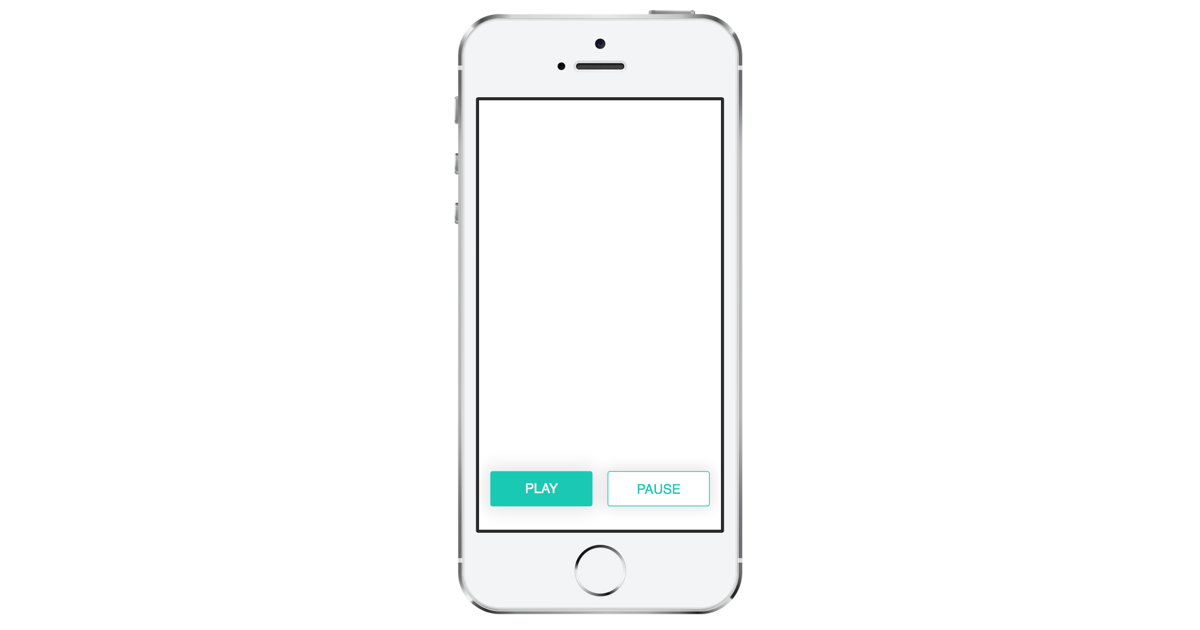
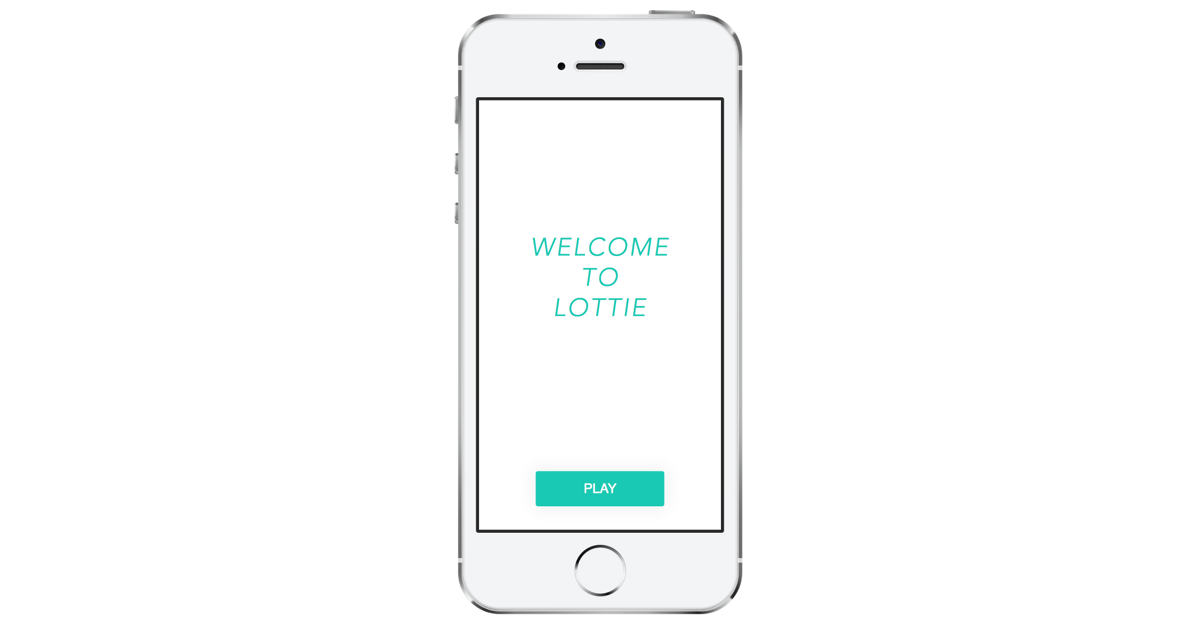
更新demo

Changed region(s): [[0.4317, 0.3619, 0.555, 0.5127], [0.4933, 0.7238, 0.5858, 0.8143], [0.4008, 0.7238, 0.4625, 0.8143]]

diff --git a/lottie-framer-demo.framer/.social.html b/lottie-framer-demo.framer/.social.html
@@ -31,14 +31,14 @@
 		<script src="framer/framer.js?nocache=de1b3b046cd7a44d11f275a7634f9e0b"></script>
 		<script src="framer/framer.generated.js?nocache=27d512ed46dba8aab8cfcccbfd23d274"></script>
 		<script src="framer/framer.modules.js?nocache=a48a3f6cb3e45983bd94201f7185633e"></script>
-		<script>document.addEventListener("DOMContentLoaded", function() {window.__framerClientCodeId = 896;window.__framerNew = function (n,loc,th,i){if (i == null) { return i };i.__framerInstanceInfo = _.defaults({name:n,location:loc,hash:th},i.__framerInstanceInfo);_.defaults(i.__framerInstanceInfo,{name:"Untitled"});return i;};window.__framerAnimation = function (th,a){if (a.isNoop === true) {return a;};var l = a.layer;if (l == null) { return a; };if (l.__framerAnimationInfo == null) {l.__framerAnimationInfo = {};};l.__framerAnimationInfo[th] = {originalState:a._originalState, destinationProperties: a.properties, destinationOptions: a.options};return a;};(function() {
-  var buttonPause, buttonPlay, lf, lottieLogoAnimation, styles;
+		<script>document.addEventListener("DOMContentLoaded", function() {window.__framerClientCodeId = 428;window.__framerNew = function (n,loc,th,i){if (i == null) { return i };i.__framerInstanceInfo = _.defaults({name:n,location:loc,hash:th},i.__framerInstanceInfo);_.defaults(i.__framerInstanceInfo,{name:"Untitled"});return i;};window.__framerAnimation = function (th,a){if (a.isNoop === true) {return a;};var l = a.layer;if (l == null) { return a; };if (l.__framerAnimationInfo == null) {l.__framerAnimationInfo = {};};l.__framerAnimationInfo[th] = {originalState:a._originalState, destinationProperties: a.properties, destinationOptions: a.options};return a;};(function() {
+  var buttonPlay, isPlaying, lf, lottieLogoAnimation, welcomeText;
 
   Screen.backgroundColor = "#FFF";
 
   lf = require('lottieLayer');
 
-  lottieLogoAnimation = window.__framerNew("lottieLogoAnimation", "5:26-12:0", "?",new lf({
+  lottieLogoAnimation = window.__framerNew("lottieLogoAnimation", "5:26-11:0", "?",new lf({
     jsonPath: 'data.json',
     autoplay: false,
     looping: true,
@@ -46,65 +46,64 @@
     height: Screen.height
   }));
 
-  styles = {
+  welcomeText = window.__framerNew("welcomeText", "12:18-17:0", "#1498a19a4",new Layer({
+    y: 350,
+    width: Screen.width,
+    backgroundColor: 'transparent',
+    html: "<p>WELCOME</p><p>TO</p><p>LOTTIE</p>"
+  }));
+
+  welcomeText.style = {
     "color": "#00D1C1",
     "text-align": "center",
-    "font-size": "35px",
-    "line-height": "93px"
+    "font-size": "66px",
+    "line-height": "80px",
+    "font-family": "Avenir Light,Georgia,serif",
+    "font-style": "italic",
+    "letter-spacing": "5px"
   };
 
-  buttonPlay = window.__framerNew("buttonPlay", "19:17-30:0", "#120a43c3c",new Layer({
+  buttonPlay = window.__framerNew("buttonPlay", "27:17-38:0", "#e526517f",new Layer({
     y: 981,
-    x: 30,
+    x: 150,
     height: 93,
-    width: 270,
+    width: 340,
     borderRadius: 6,
     backgroundColor: "#00D1C1",
     html: "PLAY",
     shadowSpread: 15,
     shadowBlur: 50,
-    shadowColor: "rgba(0,0,0,0.1)"
+    shadowColor: "rgba(0,0,0,0.05)"
   }));
 
-  buttonPause = window.__framerNew("buttonPause", "31:18-44:0", "#10a31cac7",new Layer({
-    y: 981,
-    x: 340,
-    height: 93,
-    width: 270,
-    borderRadius: 6,
-    backgroundColor: "#FFF",
-    borderWidth: 2,
-    borderColor: "#00D1C1",
-    html: "PAUSE",
-    shadowSpread: 10,
-    shadowBlur: 40,
-    shadowColor: "rgba(0,0,0,0.1)"
-  }));
+  buttonPlay.style = {
+    "color": "#FFF",
+    "text-align": "center",
+    "font-size": "35px",
+    "line-height": "93px"
+  };
 
-  buttonPlay.style = styles;
-
-  buttonPause.style = styles;
-
-  buttonPlay.style["color"] = "#FFF";
+  isPlaying = false;
 
   buttonPlay.onClick(function() {
-    lottieLogoAnimation.play();
-    window.__framerAnimation("#14665ced8",buttonPlay.animate({
-      opacity: 0.6
-    }));
-    return window.__framerAnimation("#b032455a",buttonPause.animate({
-      opacity: 1
-    }));
-  });
-
-  buttonPause.onClick(function() {
-    lottieLogoAnimation.pause();
-    window.__framerAnimation("#b8b16d9f",buttonPause.animate({
-      opacity: 0.6
-    }));
-    return window.__framerAnimation("#17960c076",buttonPlay.animate({
-      opacity: 1
-    }));
+    if (isPlaying) {
+      lottieLogoAnimation.pause();
+      isPlaying = false;
+      buttonPlay.html = "PLAY";
+      return window.__framerAnimation("#14673e659",buttonPlay.animate({
+        opacity: 1
+      }));
+    } else {
+      lottieLogoAnimation.play();
+      isPlaying = true;
+      buttonPlay.html = "PAUSE";
+      window.__framerAnimation("#83d949df",buttonPlay.animate({
+        opacity: 0.5
+      }));
+      return window.__framerAnimation("#eda5c061",welcomeText.animate({
+        opacity: 0
+      }));
+    }
   });
 
 }).call(this);
